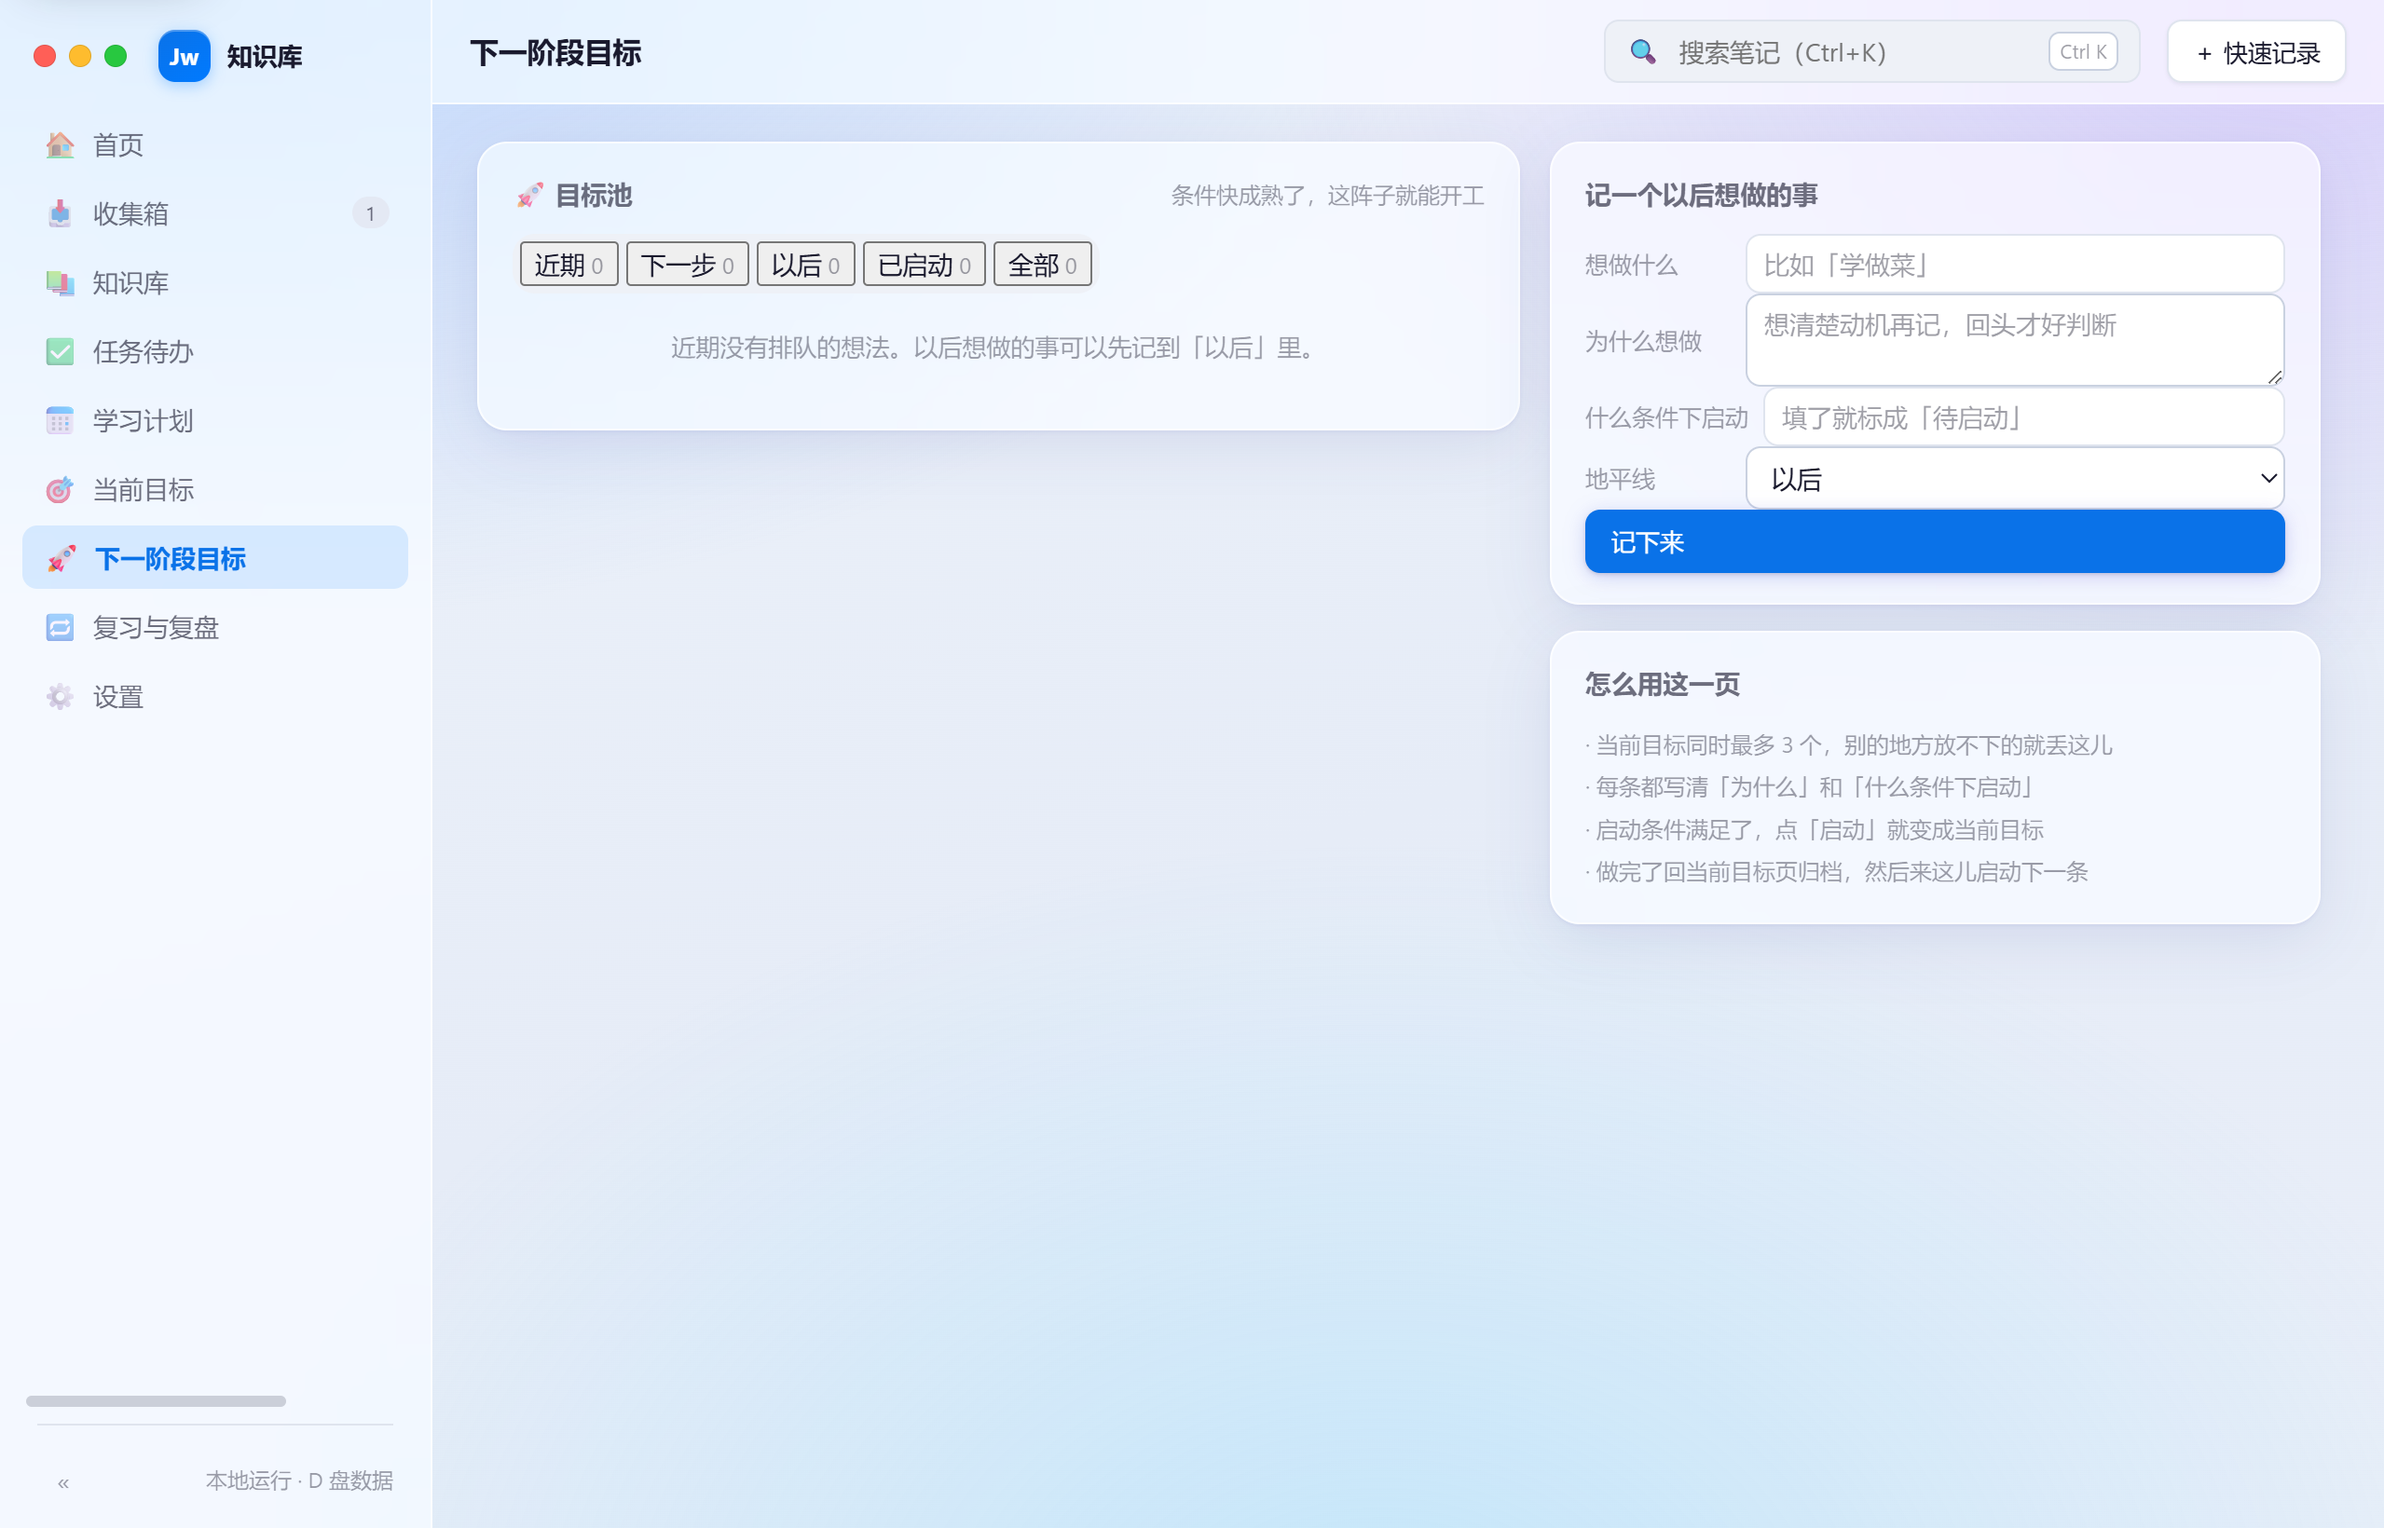
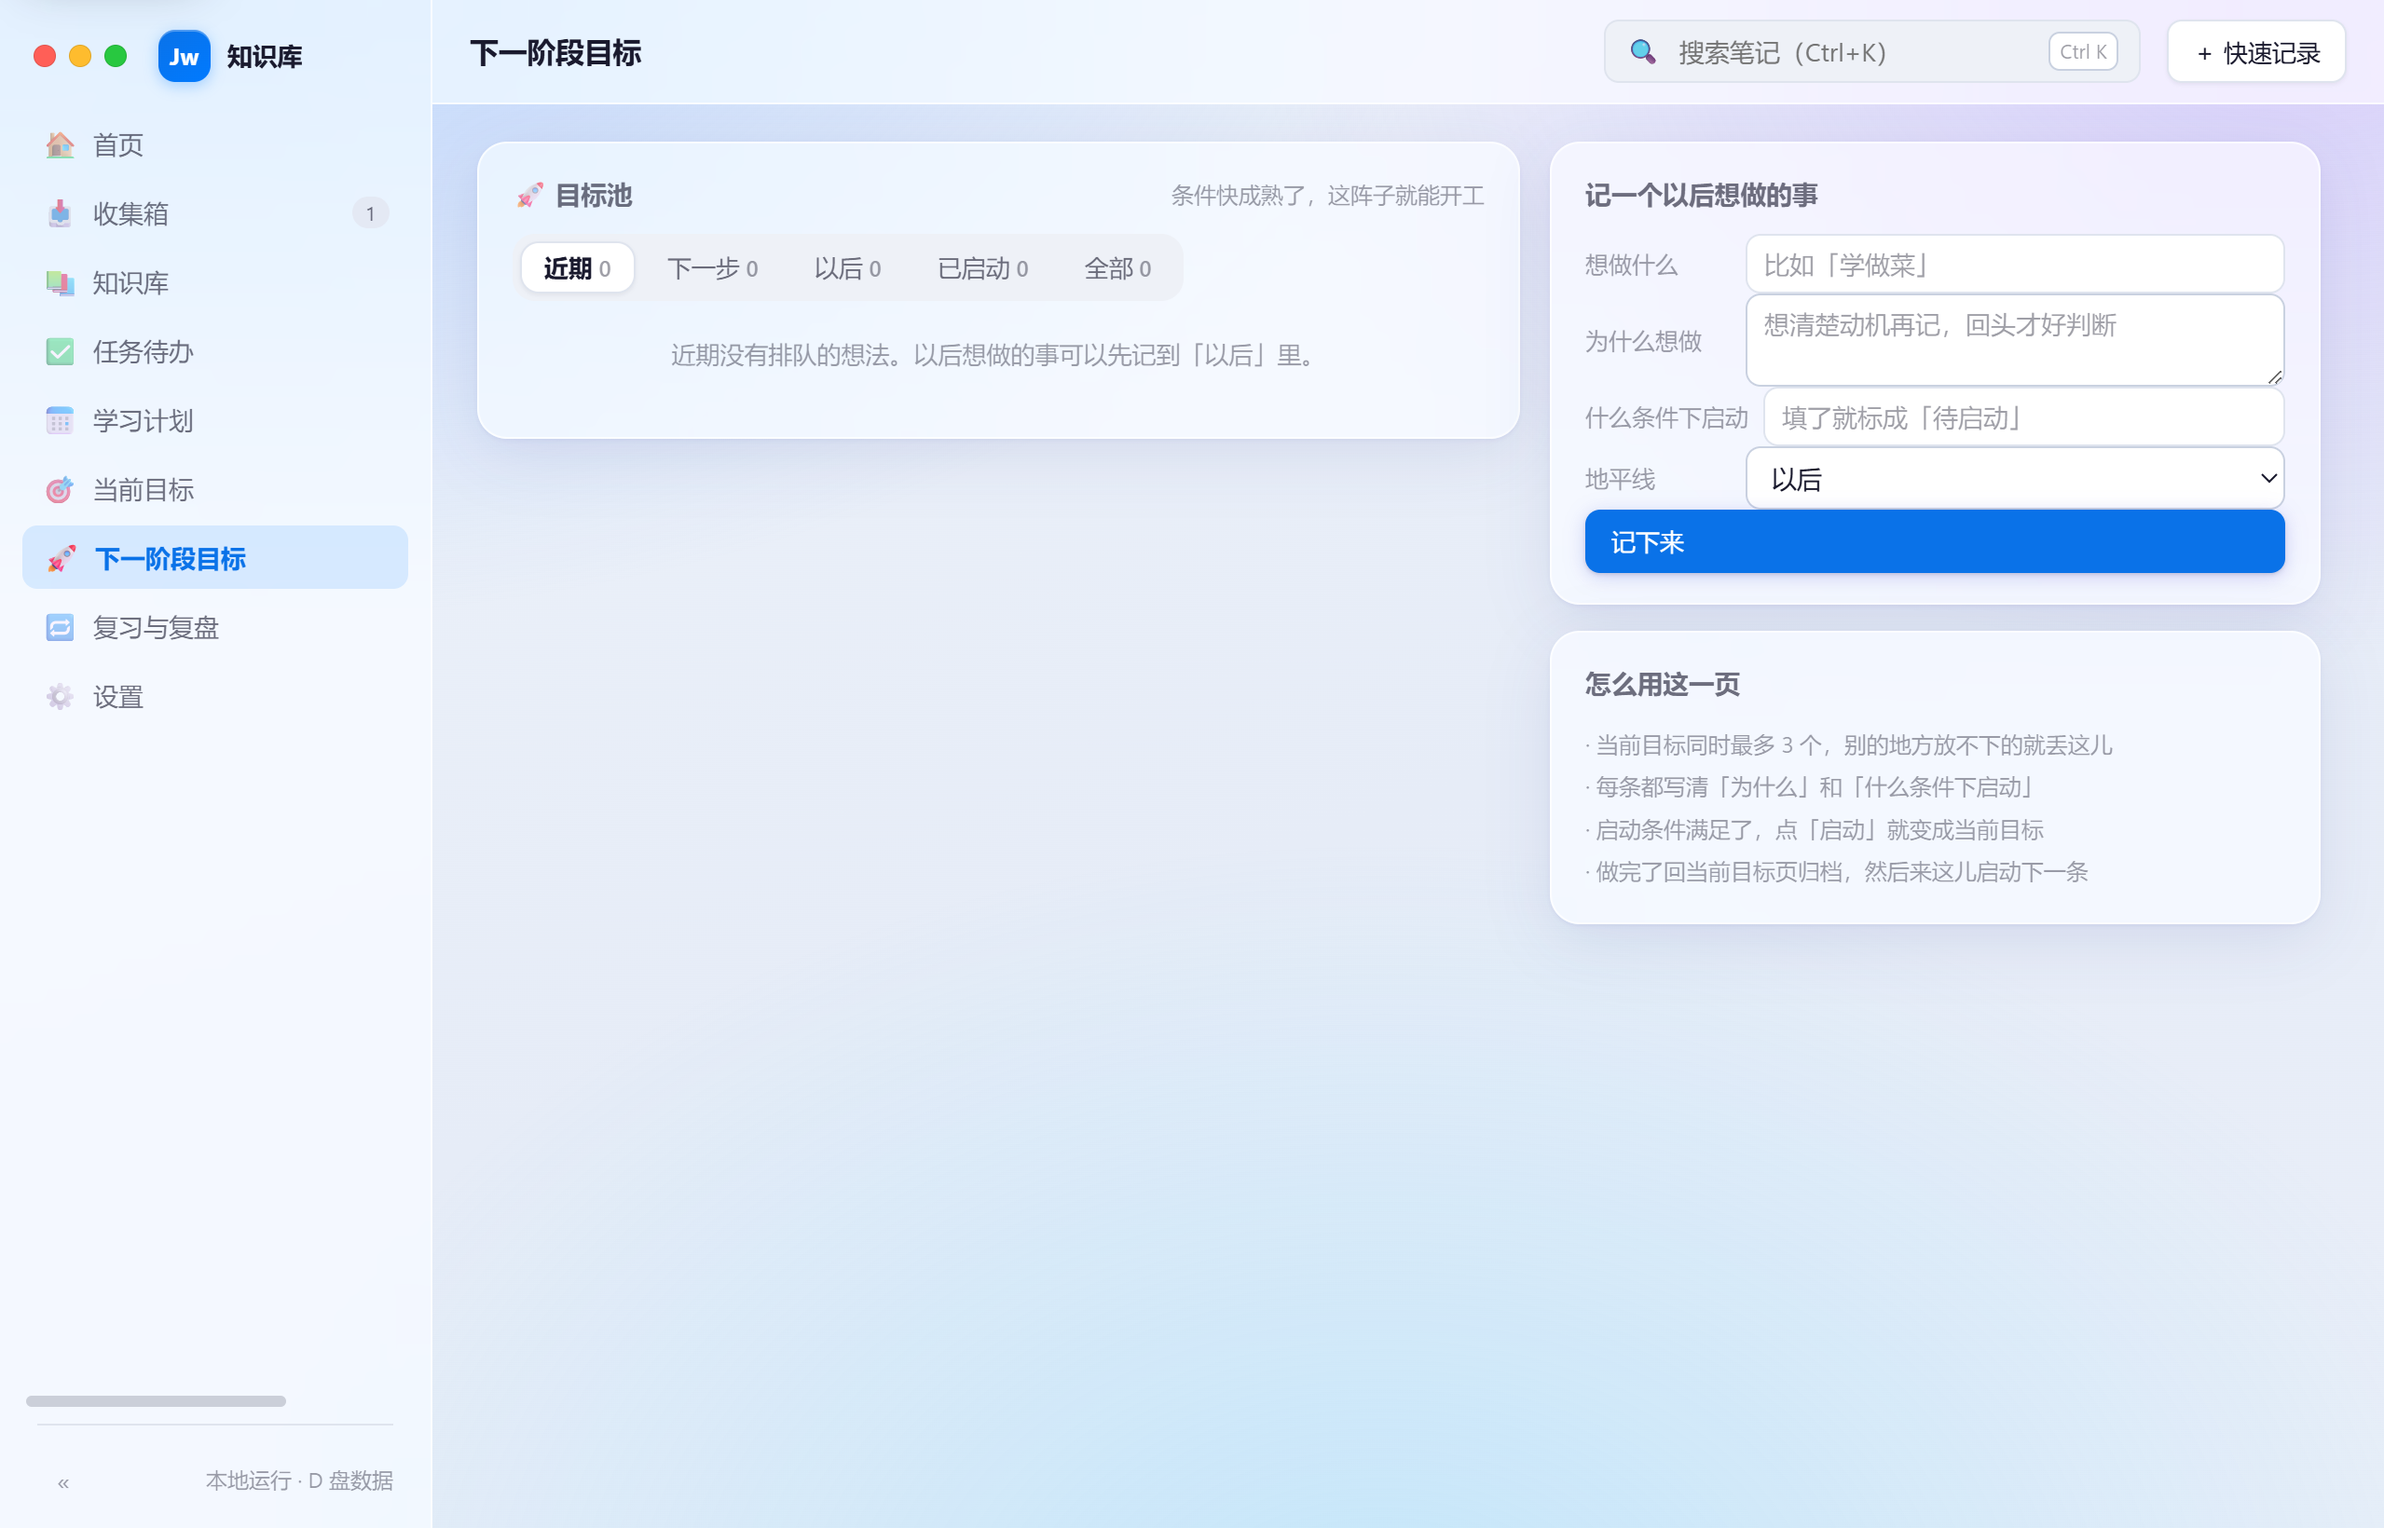
修 bug：深色模式下分段标签白底白字（补 .tabs 分段控件样式 + color-scheme 兜底）
复习与复盘/下一阶段目标/学习计划页顶部的分段标签是裸 <button>（只有 .on，没有 .btn），一直用浏览器默认外观：深色下默认底色 rgb(240,240,240) + 继承的近白文字 rgb(232,232,237)，对比度 1.07:1，等于白底白字。修法只动 CSS：给 .tabs > button:not(.btn) 补一套吃主题变量的分段控件样式（未选中透明底+--text-soft、悬停 --bg-hover、选中 --bg-panel+--border+--text）；另给 :root/[data-theme='dark'] 加 color-scheme，原生控件也跟着主题走。实测对比度深色 12.63/13.6、浅色 17.06/15.08（阈值 4.5）。e2e 加 2 条断言（212 全过），打包版自检 23/23。

Changed region(s): [[0.2162, 0.2799, 0.6177, 0.311], [0.278, 0.2177, 0.5559, 0.2488], [0.2162, 0.1555, 0.4941, 0.1866]]

diff --git a/src/renderer/src/styles.css b/src/renderer/src/styles.css
@@ -4,6 +4,10 @@
    ============================================================ */
 
 :root {
+  /* 告诉浏览器「这一页是浅色的」：原生控件（滚动条、select 弹层、日期选择器、
+     以及没被我们样式覆盖的裸 button）才会跟着走浅色，不会在深色页面里冒出浅灰底 */
+  color-scheme: light;
+
   /* 表面与文字（第五版：浅蓝灰底 + 白色毛玻璃面） */
   --bg: #e9eef6;
   --bg-panel: #ffffff;
@@ -94,6 +98,9 @@
 }
 
 [data-theme='dark'] {
+  /* 原生控件也跟着转深色（上一版这里没写，裸 button 就会保持浅灰底 + 继承近白字） */
+  color-scheme: dark;
+
   /* 深色 = 偏蓝灰，不刺眼（第五版） */
   --bg: #1a1a2e;
   --bg-panel: #22242f;
@@ -2128,6 +2135,55 @@ label.field {
   color: var(--text);
   font-weight: 600;
   box-shadow: var(--shadow-sm);
+}
+
+/* 裸 <button> 版的分段标签（复习/复盘、日/周/月复盘、目标池、学习计划的条目/日历）：
+   它们只挂 .on、没有 .btn，之前完全靠浏览器默认外观 —— 深色模式下默认底色还是浅灰，
+   而文字颜色继承成近白，就成了「白底白字」。这里用主题变量补一套同样的分段控件观感，
+   深色下是半透明暗底 + 浅字，选中项才用面板色，文字与底色对比度 > 4.5:1。 */
+.tabs > button:not(.btn) {
+  min-height: 28px;
+  padding: 4px 12px;
+  border: 1px solid transparent;
+  border-radius: calc(var(--radius) - 2px);
+  background: transparent;
+  color: var(--text-soft);
+  font-size: 13px;
+  font-weight: 500;
+  line-height: 1.4;
+  cursor: pointer;
+  transition:
+    background-color 0.16s var(--smooth-ease),
+    color 0.16s var(--smooth-ease),
+    border-color 0.16s var(--smooth-ease),
+    transform 0.16s var(--smooth-ease);
+}
+
+.tabs > button:not(.btn):hover {
+  background: var(--bg-hover);
+  color: var(--text);
+}
+
+.tabs > button:not(.btn):active {
+  transform: translateY(0.5px);
+}
+
+.tabs > button:not(.btn):focus-visible {
+  outline: 2px solid var(--focus-ring, var(--brand));
+  outline-offset: 1px;
+}
+
+.tabs > button:not(.btn).on {
+  background: var(--bg-panel);
+  border-color: var(--border);
+  color: var(--text);
+  font-weight: 600;
+  box-shadow: var(--shadow-sm);
+}
+
+.tabs > button:not(.btn):disabled {
+  opacity: 0.45;
+  cursor: not-allowed;
 }
 
 .field > label {

diff --git a/验收清单.md b/验收清单.md
@@ -194,6 +194,7 @@
 | 10 · 弹窗与右键菜单 | 弹窗毛玻璃 + 入场 `jw-modal-in` 220ms + 关闭先播 150ms 退场再卸载 + 打开自动聚焦第一个输入控件、关掉还原焦点；新建单例右键菜单 `src/renderer/src/menu.tsx`（毛玻璃、弹簧入场、贴边往里收、↑↓/Enter/Esc、点外面关）；接上笔记行 / 分类行 / 任务行；**≤768 弹窗变底部面板**（`jw-sheet-in`） | e2e 9 项（菜单毛玻璃与位置、键盘、点外关、弹窗入场动画、退场类、焦点、底部面板几何）；截图 `ctx-menu.png`、`modal-sheet.png`；打包版自检 2 项。顺手修的真 bug：弹窗把焦点还给搜索框会让全局搜索「关掉又立刻自弹」；弹窗被玻璃面板的 `backdrop-filter` 圈住只有 688 宽 |
 | 11 · 滚动与无障碍 | 滚动条收成 10px 细条（深浅两套配色、悬停加深）；六个滚动容器统一 `overscroll-behavior: contain` + `scrollbar-gutter: stable`（滚动条出现不横向跳）+ 正文/列表平滑滚动；全站 2px 焦点环；「跳到主内容」按钮（Tab 第一下浮出、回车把焦点送进正文，用 `button` 而不是 `<a href="#main">` 是因为会撞 hash 路由）；`aria-current` / `aria-live` / `aria-labelledby` / `role=tree|listbox|option` 等读屏标签；行级键盘操作（回车打开笔记 / 切换任务）；系统「减少动态效果」全局兜底 | e2e 13 项（滚动条宽度与颜色、三个容器 computed、Tab 到跳转链接、aria 全量、Toast 播报、弹窗名字、减少动效、行级键盘）；截图 `a11y-skip-link.png`；打包版自检 2 项。顺手修的真 bug：右键菜单在右下角会露出视口（`getBoundingClientRect` 被入场缩放影响，改用 `offsetWidth`） |
 | 收尾轮 · 断点边界 + 文档对齐 | 三个阈值各测两侧（1200/1199、1024/1023、768/767），防止以后 `readLayout()` 的 `<` 写成 `<=` 或媒体查询少写 1px 却没人发现；同时把这份清单与 `开发计划.md` 补到阶段11 | e2e 三条边界断言（`1200→档=wide…；1199→档=rail…` 等） |
+| 收尾轮 · 深色分段标签修复（2026-10-17 晚） | 复习与复盘、下一阶段目标、学习计划页顶部的分段标签是裸 `<button>`（只有 `.on`、没有 `.btn`），一直靠浏览器默认外观画：深色下默认底色是浅灰 `rgb(240,240,240)`、文字继承近白 → 对比度 1.07:1，白底白字。修法只用 CSS：`.tabs > button:not(.btn)` 补一套吃主题变量的分段样式；另给 `:root` / `[data-theme='dark']` 加 `color-scheme`，原生控件也跟着主题 | 实测对比度：深色 12.63 / 13.6、浅色 17.06 / 15.08（阈值 4.5）；e2e 两条断言（深色 / 浅色各遍历两个页面取最低对比度）；截图 `tests/e2e/shots/dark-tabs-review.png`、`dark-tabs-next.png`；量法 `.tools/probe-darktabs.mjs` |
 
 **这一版怎么整体验收**：跑 `npm run test:all`（一次跑完 typecheck / 单测 / 构建 / e2e / 强杀，最后应是 e2e 全过、强杀 6/6）；再看 `C:\JwKB` 的安装包或绿色版，按上面各阶段的「怎么验」走一遍。
 

diff --git a/开发计划.md b/开发计划.md
@@ -721,6 +721,16 @@ NSIS 安装器启动时会先在自己所在目录写一次临时文件再替换
 
 没做的、说清楚的：读屏只验了 aria 结构，没真开讲述人逐句听；窄窗口只验了 720 一档；性能实测是这台机器（两种写法都 60fps），换台低配机器结论可能不同。0.3.0 交付包留给用户手动验收。
 
+## 收尾轮 · 深色模式下分段标签「白底白字」（2026-10-17 晚）
+**改的文件**：`src/renderer/src/styles.css`、`tests/e2e/cdp-check.mjs`、`README.md`、`验收清单.md`、`开发计划.md`（外加临时探针 `.tools/probe-darktabs.mjs`，未提交）。
+- 现象（用户截图）：深色模式下「复习与复盘」顶部分段标签、「下一阶段目标」目标池标签是**白底白字**，完全看不清；浅色模式正常。
+- 根因：这些标签在 JSX 里是裸 `<button className={... ? 'on' : ''}>`，**没有 `.btn` 类** —— 全套按钮样式都挂在 `.btn` 上，所以它们一直用浏览器默认外观：默认底色 `rgb(240,240,240)`（Chromium 的 ButtonFace，不跟页面主题走），文字颜色 `color: inherit` 继承深色主题的近白 `rgb(232,232,237)`，对比度 1.07:1。
+- 修法（只动 CSS，没改 JSX）：
+  1. `.tabs > button:not(.btn)` 补一整套分段控件样式：未选中透明底 + `--text-soft`；悬停 `--bg-hover` + `--text`；按下降 0.5px；`:focus-visible` 用 `--focus-ring`；选中 `.on` 用 `--bg-panel` + `--border` + `--text` + `--shadow-sm`；禁用 45% 透明。
+  2. `:root { color-scheme: light }` / `[data-theme='dark'] { color-scheme: dark }` —— 让原生控件（select 弹层、日期选择器、以后新冒出的裸 button）都跟着主题走，从根上堵住这类「浅色控件落在深色页面」。
+- 验证：`npm run typecheck` 0；`npm run build` 0（`index-DCVqPp4A.css` 100.75 kB）；e2e **212/212**（新增 2 条对比度断言：深色 12.63 / 13.6、浅色 17.06 / 15.08，阈值 4.5）；`npm run test:all` exit 0；`npm run dist` exit 0；`.tools/check-packaged.mjs` 23/23。
+- 教训：给「裸元素」写样式时，先确认这个元素有没有被任何类命中 —— 只看设计稿截图会误以为是「颜色变量用错了」，实际是**压根没样式、落回 UA 默认**。`color-scheme` 是这类问题最便宜的兜底。
+
 **工具教训（这一版攒下的，后面别再踩）**
 - e2e / `npm run dist` / `.tools/check-packaged.mjs` 必须完整权限跑（Electron 要建命名管道），受限沙箱下应用会报 `Check failed: . : 拒绝访问。 (0x5)`、exit 2147483651。
 - PowerShell 里 `npm run X 2>&1 | Select-Object` 会把 npm 的 stderr 变成 `NativeCommandError` 中断整条命令；用 `cmd /c "npm run X > 日志 2>&1"`。

diff --git a/README.md b/README.md
@@ -287,4 +287,6 @@ C:\JwKB\使用说明.txt
 - **弹窗挂到 body 上**：弹窗原来渲染在页面自己的玻璃面板（`.kb`）里，而玻璃面板的 `backdrop-filter` 会让 `position: fixed` 以**它为参照物**（不是窗口）——所以 720 宽时底部面板量出来只有 688/720 宽。现在 `Modal` 用 `createPortal` 挂到 `document.body`，窄窗口占满整宽、位置也对。
 - **右键菜单贴边夹取改用 `offsetWidth/offsetHeight`**：入场动画带 `scale`，`getBoundingClientRect()` 量到的是缩放后的尺寸（偏小），在右下角右键时菜单会露出窗口外。换成不受 transform 影响的布局尺寸后就收得回来了。
 
+**顺手修的 bug · 深色模式下分段标签「白底白字」（2026-10-17 晚）**：复习与复盘页顶部的「复习 / 复盘」、日 / 周 / 月复盘，下一阶段目标页「目标池」的五个标签，学习计划页的「条目 / 日历」——这些分段标签在代码里是**裸 `<button>`**（只挂一个 `.on` 表示选中，没有 `.btn` 类），所以一直靠浏览器的默认外观在画。默认外观是**浅灰底** `rgb(240, 240, 240)`，而文字颜色继承深色主题的近白 `rgb(232, 232, 237)` → 对比度只剩 **1.07 : 1**，等于白底白字，完全看不见（浅色模式下文字是深色，所以看不出问题）。修法没碰 JSX（按「只改样式」的要求）：① 给 `.tabs > button:not(.btn)` 补一套吃主题变量的分段控件样式——未选中透明底 + `--text-soft`、悬停 `--bg-hover`、选中 `--bg-panel` + `--border` + `--text`，深色下就是「容器暗底 + 半透明胶囊 + 浅字」；② 顺手在 `:root` / `[data-theme='dark']` 上加 `color-scheme: light / dark`，让所有原生控件（选择框弹层、日期选择器，以及以后再冒出来的裸 button）自动跟着主题走，从根上不再出现「浅色控件落在深色页面」。实测对比度：深色选中 **12.63 : 1**、未选 **13.6 : 1**；浅色选中 **17.06 : 1**、未选 **15.08 : 1**（无障碍阈值 4.5 : 1）。量法是 `.tools/probe-darktabs.mjs`（真开应用，逐主题、逐页面算相对亮度）。e2e 加了两条断言：深色 / 浅色各一条，各遍历「复习与复盘」「下一阶段目标」两个页面的所有分段标签，取最低对比度必须 ≥ 4.5。
+
 逐条验收证据见 [验收清单.md](验收清单.md)，开发过程见 [开发计划.md](开发计划.md)。
